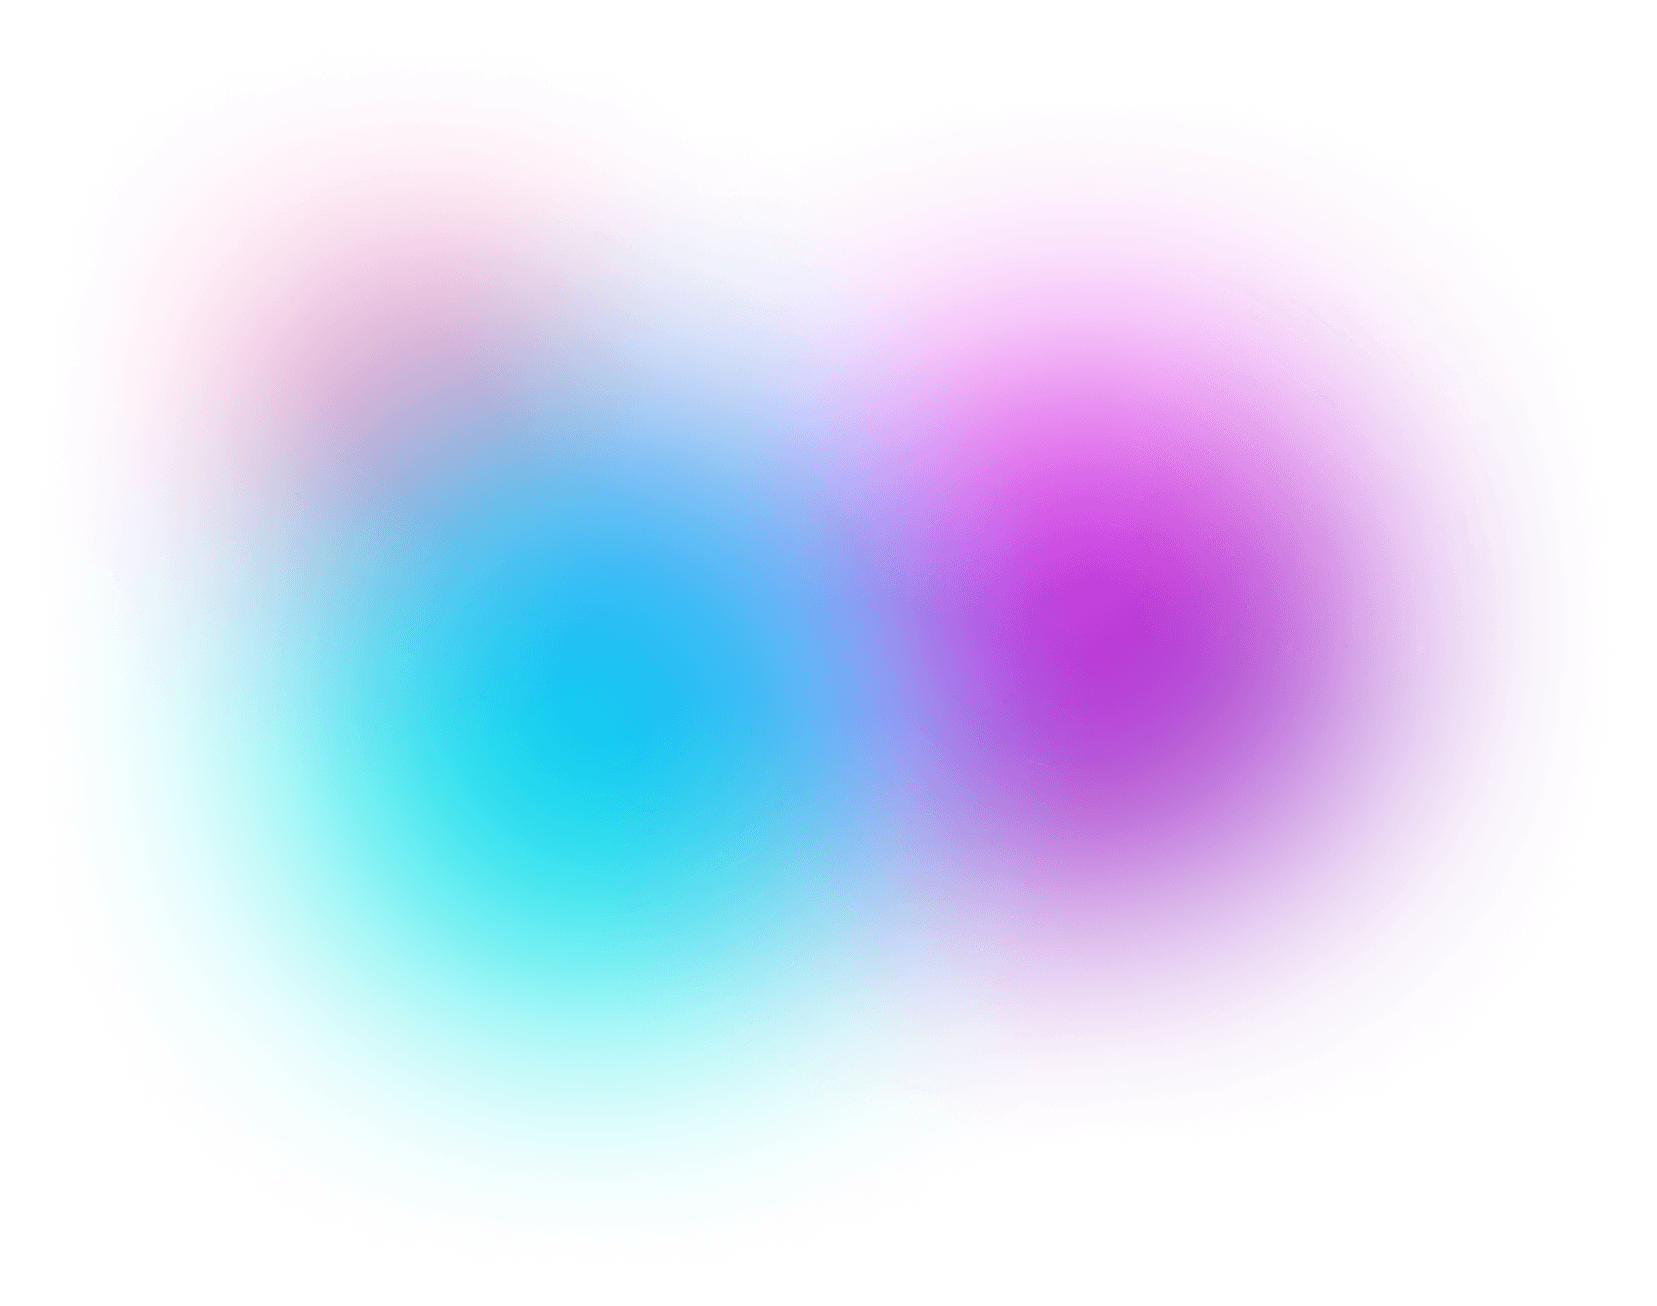
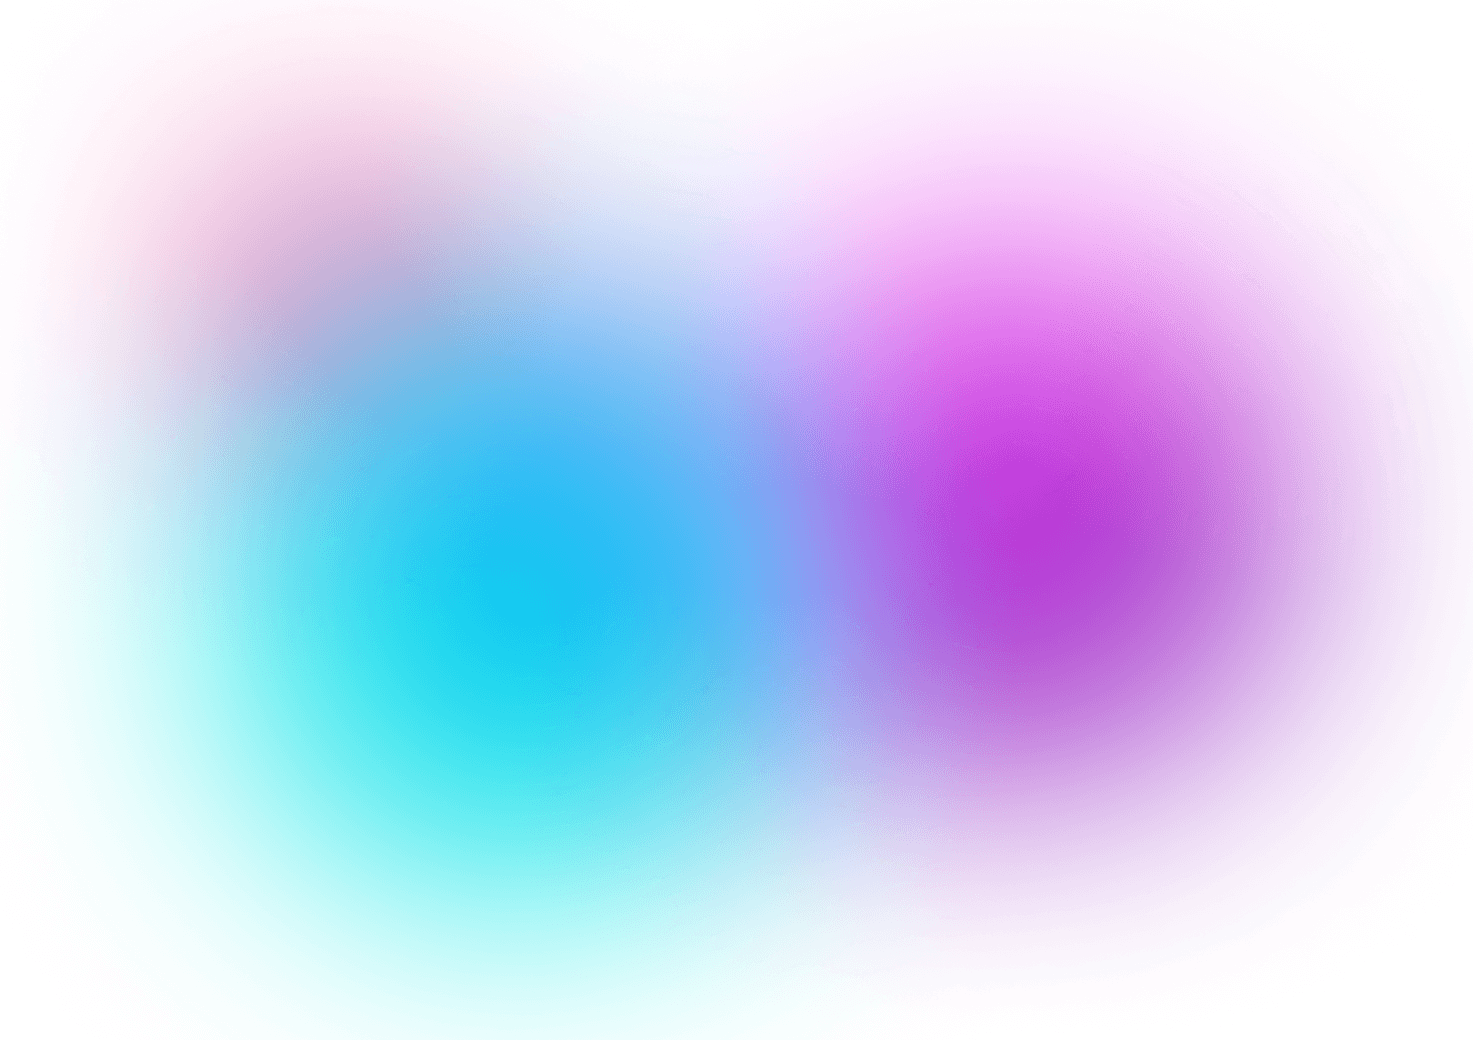
update

diff --git a/src/components/Hero/Hero.tsx b/src/components/Hero/Hero.tsx
@@ -1,5 +1,43 @@
+import { IMAGES } from "../../images/Images";
+
 const Hero = () => {
-  return <div className="text-white">Hero</div>;
+  return (
+    <div className="flex justify-center items-center relative">
+      <div className="relative z-0">
+        <div className="z-0">
+          <img src={IMAGES.image1} alt="bg" width={700} />
+        </div>
+
+        <div className="bg-black opacity-70 h-full w-full absolute top-0 z-10" />
+      </div>
+      <div className="absolute space-y-4">
+        <h1 className="text-white text-4xl md:text-5xl text-center font-semibold">
+          Show off your{" "}
+          <span
+            className="text-transparent 
+        bg-clip-text bg-gradient-to-r from-[#1991FF] via-[#6F76EC] to-[#FE4ACC]"
+          >
+            Creativity
+          </span>
+        </h1>
+
+        <p className="text-gray-400 italic text-xs text-center ">
+          "Creativity is just connecting things" - Steve Jobs
+        </p>
+
+        <div className="flex justify-center ">
+          <div className="bg-white flex rounded-full px-3">
+            <button
+              className="flex items-center gap-2 px-3 py-2 font-medium text-transparent 
+        bg-clip-text bg-gradient-to-r from-[#1991FF] via-[#6F76EC] to-[#FE4ACC]"
+            >
+              Explore Now
+            </button>
+          </div>
+        </div>
+      </div>
+    </div>
+  );
 };
 
 export default Hero;

diff --git a/src/components/Navbar/Navbar.tsx b/src/components/Navbar/Navbar.tsx
@@ -20,10 +20,20 @@ const navlinks = [
 
 const Navbar = () => {
   const [isMenuOpen, setIsMenuOpen] = React.useState<boolean>(false);
+  const [scrollY, setScrollY] = React.useState<number>(0);
+
+  window.addEventListener("scroll", () => {
+    setScrollY(window.scrollY);
+  });
+
   return (
-    <div>
+    <div
+      className={`relative ${
+        scrollY >= 100 && "bg-gray-950 opacity-95"
+      } transition duration-500 ease-in-out`}
+    >
       <div
-        className={`flex items-center justify-between py-10  ${
+        className={`flex items-center justify-between py-5  ${
           isMenuOpen && "border-b border-gray-800"
         }`}
       >
@@ -75,9 +85,10 @@ const Navbar = () => {
       </div>
 
       <div
-        className={`hidden px-5 transition duration-500 ease-in-out opacity-0 ${
+        className={`${isMenuOpen ? "flex-1" : "hidden"} ${
           isMenuOpen && "opacity-100"
-        }`}
+        } px-5 transition duration-500 ease-in-out opacity-0 
+        absolute z-30 bg-black w-full h-screen `}
       >
         <div className="border-b border-gray-800">
           {navlinks.map((item, i) => (

diff --git a/src/navigation/navigation.tsx b/src/navigation/navigation.tsx
@@ -1,0 +1,26 @@
+import React from "react";
+import { BrowserRouter, Route, Routes } from "react-router-dom";
+import Homepage from "../pages/Homepage/Homepage";
+
+const Navigation = () => {
+  return (
+    <BrowserRouter>
+      <Routes>
+        {/* <Route element={<Public />}> */}
+        <Route path="/" element={<Homepage />} />
+
+        {/* </Route> */}
+
+        {/* <Route element={<Private />}>
+          <Route path="/dashboard" element={<DashboardLayout />}>
+            <Route path="home" element={<Home />} />
+            <Route path="wallet" element={<Wallet />} />
+          </Route>
+          <Route path="/profile" element={<Profile />} />
+        </Route> */}
+      </Routes>
+    </BrowserRouter>
+  );
+};
+
+export default Navigation;

diff --git a/src/components/Filters/Filters.tsx b/src/components/Filters/Filters.tsx
@@ -1,0 +1,25 @@
+import React from "react";
+import { categories } from "../../util/Data";
+
+const Filters = () => {
+  const [selected, setSelected] = React.useState<string>("Discover");
+  return (
+    <div className="flex justify-evenly w-screen  flex-wrap">
+      {categories.map((item, i) => (
+        <div
+          key={i}
+          className={`${
+            selected === item.name
+              ? "bg-white text-black"
+              : "bg-transparent text-white"
+          } rounded-full px-4 py-2`}
+          onClick={() => setSelected(item.name)}
+        >
+          <h1 className="text-center text-sm whitespace-nowrap">{item.name}</h1>
+        </div>
+      ))}
+    </div>
+  );
+};
+
+export default Filters;

diff --git a/src/pages/Homepage/Homepage.tsx b/src/pages/Homepage/Homepage.tsx
@@ -1,0 +1,21 @@
+import Navbar from "../../components/Navbar/Navbar";
+import Hero from "../../components/Hero/Hero";
+import Filters from "../../components/Filters/Filters";
+
+const Homepage = () => {
+  return (
+    <div>
+      <div className="sticky top-0 z-30 px-5 lg:px-10">
+        <Navbar />
+      </div>
+
+      <div className="my-5">
+        <Hero />
+
+        <Filters />
+      </div>
+    </div>
+  );
+};
+
+export default Homepage;

diff --git a/src/util/Data.tsx b/src/util/Data.tsx
@@ -1,0 +1,26 @@
+export const categories = [
+    {
+      name: "Discover",
+    },
+    {
+      name: "Portfolio",
+    },
+    {
+      name: "Website UI",
+    },
+    {
+      name: "Mobile UI",
+    },
+    {
+      name: "Comming Soon",
+    },
+    {
+      name: "Comming Soon",
+    },
+    {
+      name: "Comming Soon",
+    },
+    {
+      name: "Comming Soon",
+    },
+  ];

diff --git a/src/App.tsx b/src/App.tsx
@@ -1,12 +1,9 @@
-import Hero from "./components/Hero/Hero";
-import Navbar from "./components/Navbar/Navbar";
+import Navigation from "./navigation/navigation";
 
 function App() {
-  console.log(import.meta.env.VITE_APPWRITE_PROJ_ID);
   return (
-    <main className="px-5 lg:px-20">
-      <Navbar />
-      <Hero />
+    <main>
+      <Navigation />
     </main>
   );
 }

diff --git a/src/index.css b/src/index.css
@@ -1,5 +1,7 @@
 @import url("https://fonts.googleapis.com/css2?family=Montserrat&display=swap");
 
+  @import url('https://fonts.googleapis.com/css2?family=Inter&display=swap');
+
 @tailwind base;
 @tailwind components;
 @tailwind utilities;
@@ -10,7 +12,7 @@
 }
 
 * {
-  font-family: "Montserrat", sans-serif;
+  font-family: 'Inter', sans-serif;
 }
 
 :root {

diff --git a/src/images/Images.tsx b/src/images/Images.tsx
@@ -1,0 +1,5 @@
+import bg from "../../public/bg.png";
+
+export const IMAGES = {
+  image1: new URL(bg, import.meta.url).href,
+};
